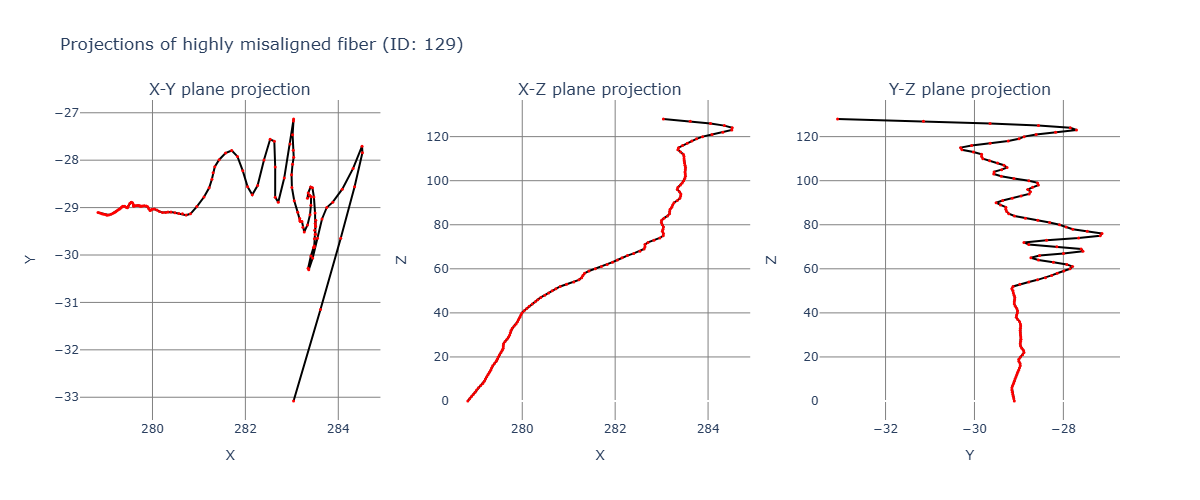
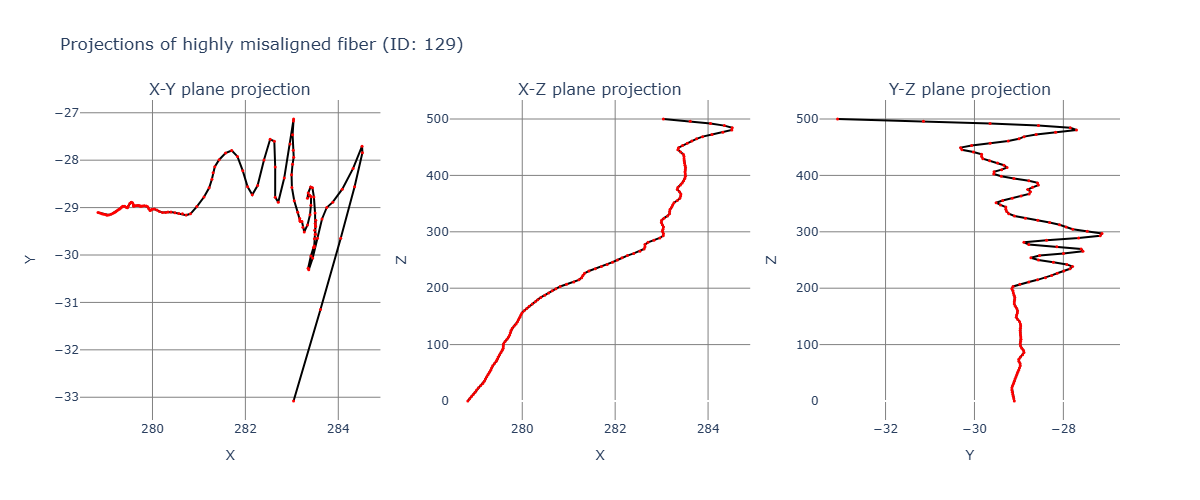
fixed scaling of plot and making better axis names

diff --git a/scrips/plot.py b/scrips/plot.py
@@ -439,9 +439,13 @@ def One_D_ellipse_tilt_hist(df):
     plt.close('all')
 
 def Two_D_hex_plot(df):
-    ax3 = df.plot.hexbin(x="EllipseXTilt", y="EllipseYTilt", gridsize=100, cmap="viridis", xlim = (-10, 10), ylim = (-10, 10))
+    ax1 = df.plot.hexbin(x="EllipseXTilt", y="EllipseYTilt", gridsize=100, cmap="viridis", xlim = (-10, 10), ylim = (-10, 10))
+    ax1.set_xlabel(r'$\theta_x$ (°)')
+    ax1.set_ylabel(r'$\theta_y$ (°)')
     plt.savefig(fname="EllipseTiltHex.png")
-    ax4 = df.plot.hexbin(x="angle_x_deg", y="angle_y_deg", gridsize=100, cmap="viridis", xlim = (-10, 10), ylim = (-10, 10))
+    ax2 = df.plot.hexbin(x="angle_x_deg", y="angle_y_deg", gridsize=100, cmap="viridis", xlim = (-10, 10), ylim = (-10, 10))
+    ax2.set_xlabel(r'$\theta_x$ (°)')
+    ax2.set_ylabel(r'$\theta_y$ (°)')
     plt.savefig(fname="FiniteTiltHex.png")
 
 def plot_alpha_z(data_raw,data_sim_arr,cop_models):

diff --git a/scrips/main.py b/scrips/main.py
@@ -23,7 +23,10 @@ plot_ellipse(df,1)
 
 #Make 2D plot of fiber projection plot
 single_fiber_plot(df,5,'normal')
-single_fiber_plot(raw_df,129,'highly misaligned')
+plot_df = raw_df.copy()
+Z_SCALE = 500 / (plot_df["z"].max() - plot_df["z"].min())   # µm per slice (n slices → n-1 intervals)
+plot_df["z"] = plot_df["z"] * Z_SCALE # This becomes your z-coordinate (code taken out of data_clean.py)
+single_fiber_plot(plot_df,129,'highly misaligned')
 
 #Make 1D histograms of ellipsetilt vs angle 
 One_D_ellipse_tilt_hist(df)
